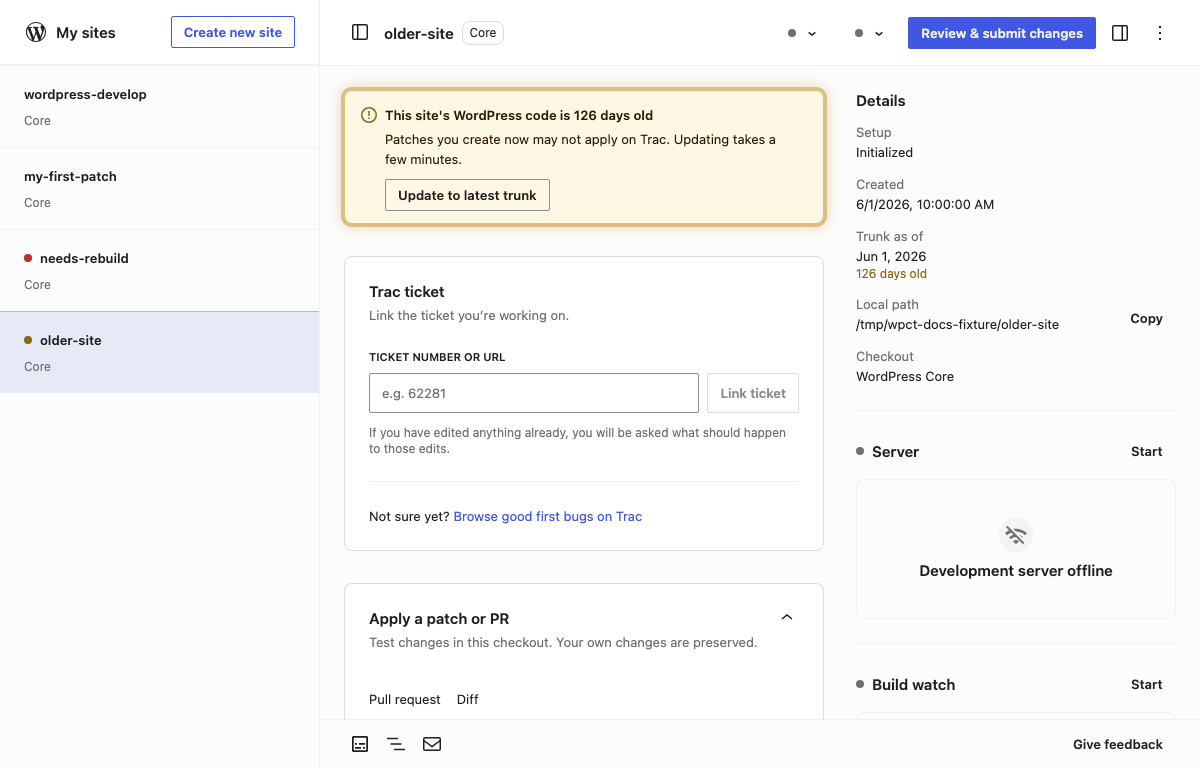
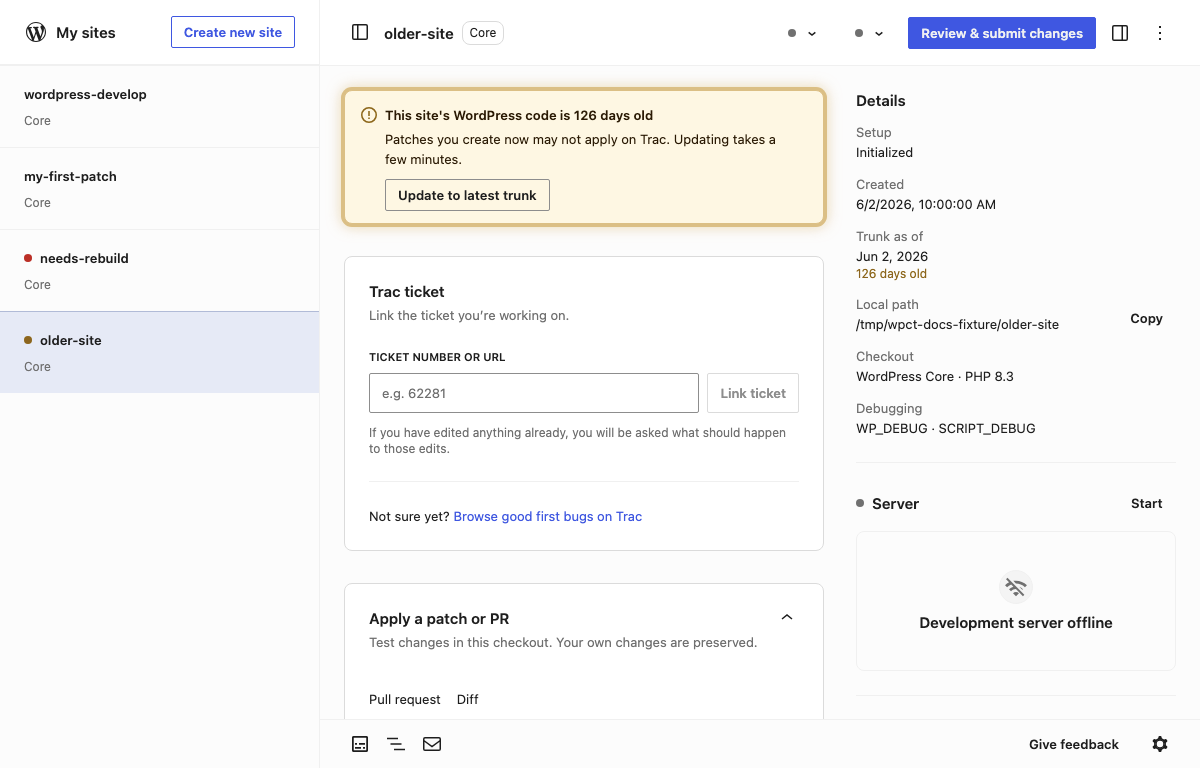
Say what WP_DEBUG off does, show the fallback for a stale PHP version, and put the server settings in the details
From the review. WP_DEBUG off was said to empty debug.log and the browser
of errors; it takes away notices and deprecations, and warnings, errors
and error_log() calls still reach both, since Playground's own PHP keeps
logging and display on. The switch, the guide and the constants' module
say so. Which versions the control offers, and which it shows as chosen,
are decided in the view module: a version a bump has taken from the
bundle shows the fallback as chosen, with a note, and the start logs why.

The open site's details name the PHP a server starts on beside the
checkout and, under Debugging, which of the two constants are on, as the
prototype has them. The guide's pictures are retaken: the details changed
here, and the footer's cog since #638 had not been taken yet.

diff --git a/src/renderer/components/settings-dialog.jsx b/src/renderer/components/settings-dialog.jsx
@@ -6,7 +6,7 @@ import { useEffect, useId, useMemo, useState } from 'react';
 import { __experimentalToggleGroupControl as ToggleGroupControl, __experimentalToggleGroupControlOption as ToggleGroupControlOption } from '@wordpress/components';
 import { __ } from '@wordpress/i18n';
 import { Button, Dialog, InputControl, Notice, SelectControl, Stack, SwitchControl, Tabs, Text } from '@wordpress/ui';
-import { githubAccountLine, newSiteLocationNote, languageItems, languageValue, languageChanged, SYSTEM_LANGUAGE } from '../settings-view.cjs';
+import { githubAccountLine, newSiteLocationNote, languageItems, languageValue, languageChanged, phpVersionChoice, SYSTEM_LANGUAGE } from '../settings-view.cjs';
 import { FolderField } from './folder-field.jsx';
 
 // A notice here is read by its role, and is not also spoken: the dialog it
@@ -138,14 +138,14 @@ function GeneralTab({ settings, loaded, onChange }) {
 // be turned off. Applied the next time a server starts; one that is running
 // keeps what it started with until it is started again.
 function SitesTab({ settings, onChange }) {
-  const [versions, setVersions] = useState(null);
+  const [php, setPhp] = useState(null);
   const [error, setError] = useState('');
 
   useEffect(() => {
     let cancelled = false;
     window.api.listPhpVersions()
-      .then((res) => { if (!cancelled && res?.ok) setVersions(res.versions); })
-      .catch(() => { if (!cancelled) setVersions([]); });
+      .then((res) => { if (!cancelled && res?.ok) setPhp({ versions: res.versions, fallback: res.fallback }); })
+      .catch(() => { if (!cancelled) setPhp({ versions: [], fallback: null }); });
     return () => { cancelled = true; };
   }, []);
 
@@ -153,9 +153,7 @@ function SitesTab({ settings, onChange }) {
     const result = await onChange(key, value);
     setError(result?.ok ? '' : (result?.error || __('Could not keep that.')));
   };
-  // The version set is offered even where the list does not have it, so
-  // the control shows what is set rather than nothing.
-  const offered = versions && settings && !versions.includes(settings.phpVersion) ? [settings.phpVersion, ...versions] : versions;
+  const choice = phpVersionChoice({ versions: php?.versions, fallback: php?.fallback, stored: settings ? settings.phpVersion : null });
 
   return (
     <Stack direction="column" gap="xl">
@@ -166,17 +164,18 @@ function SitesTab({ settings, onChange }) {
         __next40pxDefaultSize
         isBlock
         label={__('PHP version')}
-        value={settings ? settings.phpVersion : undefined}
-        disabled={!settings || !offered}
+        help={choice.note || undefined}
+        value={choice.value || undefined}
+        disabled={!settings || !php}
         onChange={(value) => { if (value) keep('phpVersion', value); }}
       >
-        {(offered || []).map((version) => (
+        {(php?.versions || []).map((version) => (
           <ToggleGroupControlOption key={version} value={version} label={version} />
         ))}
       </ToggleGroupControl>
       <SwitchControl
-        label={__('Show PHP errors (WP_DEBUG)')}
-        description={__('Notices, warnings and deprecations are reported, written to debug.log and shown in the browser. Off, the debug.log tab has nothing new to show.')}
+        label={__('Report notices and deprecations (WP_DEBUG)')}
+        description={__('Off, notices and deprecations are not reported. Warnings, errors and error_log() calls still reach debug.log and the browser.')}
         checked={settings ? settings.wpDebug : true}
         disabled={!settings}
         onCheckedChange={(checked) => keep('wpDebug', checked)}

diff --git a/src/renderer/index.jsx b/src/renderer/index.jsx
@@ -684,6 +684,7 @@ function App() {
                         createdAt={siteMeta?.[s]?.createdAt}
                         label={siteMeta?.[s]?.label}
                         projectType={siteMeta?.[s]?.projectType}
+                        settings={settings}
                         onInitialized={onInitialized}
                         onSiteMetaPatch={onSiteMetaPatch}
                         onDelete={onDelete}
@@ -739,7 +740,7 @@ function App() {
   );
 }
 
-function SiteRow({ sitePath, initialized, createdAt, label, projectType = null, onInitialized, onSiteMetaPatch, onDelete, onRename, onCreateSite, editor, wporg, isPending = false, isDeleting = false, setupLogs = '', isActive = false, switchProgress = null, carriedWork = null, onClearSwitchNotices = null, deepLink = null, onDeepLinkDone = null, detailsOpen = true, onToggleDetails = null, tray = null, onShowTray = null }) {
+function SiteRow({ sitePath, initialized, createdAt, label, projectType = null, settings = null, onInitialized, onSiteMetaPatch, onDelete, onRename, onCreateSite, editor, wporg, isPending = false, isDeleting = false, setupLogs = '', isActive = false, switchProgress = null, carriedWork = null, onClearSwitchNotices = null, deepLink = null, onDeepLinkDone = null, detailsOpen = true, onToggleDetails = null, tray = null, onShowTray = null }) {
   // The window's confirmation queue (#253): confirm(message) after an action
   // completes, so the outcome is announced rather than left silent or buried in
   // the terminal.
@@ -2233,7 +2234,16 @@ function SiteRow({ sitePath, initialized, createdAt, label, projectType = null, 
         id={detailsId}
         open={detailsOpen}
         siteName={displayName}
-        facts={{ initialized, created: createdLabel, trunk: age, path: sitePath, checkout: project.label }}
+        facts={{
+          initialized,
+          created: createdLabel,
+          trunk: age,
+          path: sitePath,
+          checkout: project.label,
+          // What every site's server starts with (#559), from the settings.
+          phpVersion: settings ? settings.phpVersion : null,
+          debug: settings ? { wpDebug: settings.wpDebug, scriptDebug: settings.scriptDebug } : null
+        }}
         pathCopied={pathCopied}
         onCopyPath={copyPath}
         server={skipInit ? { process: serverState, section: serverSectionState, onToggle: toggleDevServer, onOpen: openSiteLink } : null}

diff --git a/tests/e2e/journeys/settings.spec.js b/tests/e2e/journeys/settings.spec.js
@@ -215,7 +215,7 @@ test( 'the Sites tab keeps the PHP version and the debug flags the next server s
 	const dialog = ui.settingsDialog( page );
 	await ui.settingsTab( page, 'Sites' ).click();
 	const versions = dialog.getByRole( 'radiogroup', { name: 'PHP version', exact: true } );
-	const wpDebug = dialog.getByRole( 'switch', { name: 'Show PHP errors (WP_DEBUG)', exact: true } );
+	const wpDebug = dialog.getByRole( 'switch', { name: 'Report notices and deprecations (WP_DEBUG)', exact: true } );
 	const scriptDebug = dialog.getByRole( 'switch', { name: 'Use unminified scripts (SCRIPT_DEBUG)', exact: true } );
 
 	// INVARIANT — the fallbacks: 8.3, both constants on.
@@ -233,12 +233,19 @@ test( 'the Sites tab keeps the PHP version and the debug flags the next server s
 	await expect.poll( () => session.readSettings().preferences?.wpDebug ).toBe( false );
 	expect( session.readSettings().preferences.scriptDebug ).toBeUndefined();
 
+	// INVARIANT — the open site's details say what the next start is given.
+	await ui.closeDialogButton( dialog ).click();
+	await expect( dialog ).toHaveCount( 0 );
+	await expect( page.getByText( 'WordPress Core · PHP 8.4', { exact: true } ) ).toBeVisible();
+	await expect( page.getByText( 'SCRIPT_DEBUG', { exact: true } ) ).toBeVisible();
+	await expect( page.getByText( 'WP_DEBUG · SCRIPT_DEBUG', { exact: true } ) ).toHaveCount( 0 );
+
 	// INVARIANT — opened again after a restart, the tab shows what was kept.
 	const again = await session.restart();
 	await ui.settingsButton( again.page ).click();
 	await ui.settingsTab( again.page, 'Sites' ).click();
 	const kept = ui.settingsDialog( again.page );
 	await expect( kept.getByRole( 'radio', { name: '8.4', exact: true } ) ).toBeChecked();
-	await expect( kept.getByRole( 'switch', { name: 'Show PHP errors (WP_DEBUG)', exact: true } ) ).not.toBeChecked();
+	await expect( kept.getByRole( 'switch', { name: 'Report notices and deprecations (WP_DEBUG)', exact: true } ) ).not.toBeChecked();
 	await expect( kept.getByRole( 'switch', { name: 'Use unminified scripts (SCRIPT_DEBUG)', exact: true } ) ).toBeChecked();
 } );

diff --git a/tests/e2e/journeys/site-header.spec.js b/tests/e2e/journeys/site-header.spec.js
@@ -258,12 +258,15 @@ test( 'the details say what the checkout is, copy its path, and can be put away 
 	await standInForClipboard( page );
 	await expect( ui.siteHeading( page, 'fresh-site' ) ).toBeVisible( { timeout: 30_000 } );
 
-	// INVARIANT — the details are the open site's: its folder, its project,
-	// and that its setup is done. A recent trunk has no age to report.
+	// INVARIANT — the details are the open site's: its folder, its project
+	// with the PHP a server starts on and which debug constants are on, both
+	// from the settings at their fallbacks (#559), and that its setup is
+	// done. A recent trunk has no age to report.
 	const fresh = details( page, 'fresh-site' );
 	await expect( fresh.getByRole( 'heading', { name: 'Details', exact: true } ) ).toBeVisible();
 	await expect( fresh.getByText( freshDir, { exact: true } ) ).toBeVisible();
-	await expect( fresh.getByText( 'WordPress Core', { exact: true } ) ).toBeVisible();
+	await expect( fresh.getByText( 'WordPress Core · PHP 8.3', { exact: true } ) ).toBeVisible();
+	await expect( fresh.getByText( 'WP_DEBUG · SCRIPT_DEBUG', { exact: true } ) ).toBeVisible();
 	await expect( fresh.getByText( 'Initialized', { exact: true } ) ).toBeVisible();
 	await expect( fresh.getByText( /days? old$/ ) ).toHaveCount( 0 );
 
@@ -284,7 +287,7 @@ test( 'the details say what the checkout is, copy its path, and can be put away 
 	await expect( ui.siteHeading( page, 'old-trunk' ) ).toBeVisible();
 	const old = details( page, 'old-trunk' );
 	await expect( old.getByText( oldDir, { exact: true } ) ).toBeVisible();
-	await expect( old.getByText( 'Gutenberg', { exact: true } ) ).toBeVisible();
+	await expect( old.getByText( 'Gutenberg · PHP 8.3', { exact: true } ) ).toBeVisible();
 	await expect( old.getByText( '30 days old', { exact: true } ) ).toBeVisible();
 	await expect( fresh ).toHaveCount( 0 );
 

diff --git a/src/main.js b/src/main.js
@@ -734,7 +734,7 @@ function phpVersions() {
 	return phpVersionsList;
 }
 
-ipcMain.handle('playground:php-versions', () => ({ ok: true, versions: phpVersions() }));
+ipcMain.handle('playground:php-versions', () => ({ ok: true, versions: phpVersions(), fallback: SETTINGS.phpVersion.fallback }));
 
 // What the settings dialog offers after the language is changed. `quit`, not
 // `exit`: the quit sweep ends every child the app started, as it does on any
@@ -3854,6 +3854,9 @@ ipcMain.handle('playground:start', async (event, sitePath) => {
 	// Playground no longer has, after a bump, is passed over for the fallback.
 	const settings = readSettings((await getStore()).get('preferences'));
 	const phpVersion = phpVersions().includes(settings.phpVersion) ? settings.phpVersion : SETTINGS.phpVersion.fallback;
+	if (phpVersion !== settings.phpVersion) {
+		logEvent(playgroundLogScope(sitePath), `PHP ${settings.phpVersion} is set but this build does not have it; starting on PHP ${phpVersion}`);
+	}
 	const serveConfig = {
 		...(isPluginMount
 			? { strategy: 'plugin-mount', pluginDir: sitePath, pluginSlug: serve.pluginSlug }

diff --git a/tests/e2e/journeys/i18n.spec.js b/tests/e2e/journeys/i18n.spec.js
@@ -22,6 +22,8 @@ const { pseudoLocalize } = require( '../../../src/renderer/pseudo-locale.cjs' );
 
 // Names that stay as they are in every language.
 const UNTRANSLATED = new Set( [ 'WordPress Core', 'Gutenberg' ] );
+// So do the names of WordPress's constants, which the details list (#559).
+const CONSTANT_NAMES = /^(WP_DEBUG|SCRIPT_DEBUG)( · (WP_DEBUG|SCRIPT_DEBUG))*$/;
 
 /**
  * Every visible text node, aria-label and placeholder inside `root` that is not
@@ -46,7 +48,7 @@ async function unwrapped( locator ) {
 		}
 		return texts;
 	} );
-	return found.filter( ( text ) => text && ! /^\[[\s\S]*\]$/.test( text ) && ! UNTRANSLATED.has( text ) );
+	return found.filter( ( text ) => text && ! /^\[[\s\S]*\]$/.test( text ) && ! UNTRANSLATED.has( text ) && ! CONSTANT_NAMES.test( text ) );
 }
 
 test( 'the first-run screen and the create-site dialog are fully translatable', async ( { session } ) => {

diff --git a/src/wp-debug-constants.js b/src/wp-debug-constants.js
@@ -72,8 +72,12 @@ const WP_DEBUG_CONSTANTS = Object.freeze({
 /**
  * The constants a server is booted with: the set above, with the two the
  * settings can turn off turned off where they are. Everything else stays as
- * it is: with WP_DEBUG off, WordPress reads neither WP_DEBUG_LOG nor
- * WP_DEBUG_DISPLAY, and leaving them on costs nothing.
+ * it is, and so does what Playground does on its own: its php.ini keeps
+ * display_errors and log_errors on, and its mu-plugin points error_log at
+ * debug.log while WP_DEBUG_LOG is on. So WP_DEBUG off takes away notices and
+ * deprecations, which is what WP_DEBUG governs in WordPress's error_reporting,
+ * and warnings, errors and error_log() calls still reach the log and the
+ * browser. The settings say as much.
  *
  * @param {Object}  [debug]
  * @param {boolean} [debug.wpDebug]     WP_DEBUG; on unless told otherwise.

diff --git a/docs/guide/settings.md b/docs/guide/settings.md
@@ -9,10 +9,10 @@ The app's settings are in one dialog, opened from the cog at the bottom right of
 
 ## Sites
 
-What every site's development server runs with. A change applies the next time a server starts; one that is running keeps what it started with until you stop and start it.
+What every site's development server runs with. A change applies the next time a server starts; one that is running keeps what it started with until you stop and start it. The open site's details, in the right-hand column, show the PHP version beside the checkout and which debug constants are on.
 
 - **PHP version** — the PHP the site runs on, from the versions the bundled WordPress Playground has. 8.3 unless you choose another.
-- **Show PHP errors (WP_DEBUG)** — on, notices, warnings and deprecations are reported, written to `debug.log` and shown in the browser; see [Logs and debugging](./logs-and-debugging). Off, the **debug.log** tab has nothing new to show.
+- **Report notices and deprecations (WP_DEBUG)** — on, notices and deprecations are reported along with warnings and errors, written to `debug.log` and shown in the browser; see [Logs and debugging](./logs-and-debugging). Off, notices and deprecations are not reported; warnings, errors and `error_log()` calls still reach `debug.log` and the browser, which the app's PHP keeps on whatever WP_DEBUG says.
 - **Use unminified scripts (SCRIPT_DEBUG)** — on, Core serves its JavaScript and CSS unminified.
 
 ## Account

diff --git a/docs/guide/logs-and-debugging.md b/docs/guide/logs-and-debugging.md
@@ -22,7 +22,7 @@ Anything WordPress or your code writes to the PHP error log — `error_log()` ca
 
 | Constant | Value | Effect |
 | --- | --- | --- |
-| `WP_DEBUG` | `true` | Notices, warnings, and deprecations are reported. Off in Settings, nothing below is written or shown. |
+| `WP_DEBUG` | `true` | Notices, warnings, and deprecations are reported. Off in Settings, notices and deprecations are not; warnings, errors and `error_log()` calls still reach the log and the browser. |
 | `WP_DEBUG_LOG` | `true` | They are written to `wp-content/debug.log`, which this panel tails. |
 | `WP_DEBUG_DISPLAY` | `true` | Errors are also printed in the browser. |
 | `SCRIPT_DEBUG` | `true` | Core serves unminified JS and CSS. Can be turned off in Settings. |
